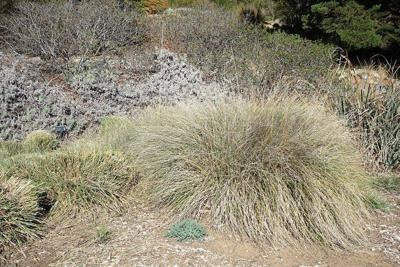
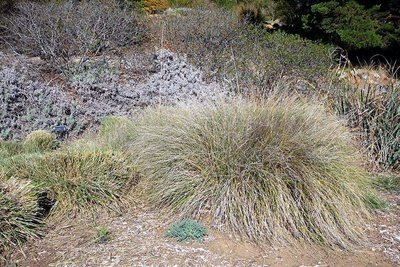
Card back: faded front photo background; Deergrass no longer faded (sold-out opacity) + mild photo levels

diff --git a/shop.css b/shop.css
@@ -5,7 +5,7 @@
 @media (min-width:960px) { .grid { grid-template-columns:repeat(3,1fr); } .ph { aspect-ratio:16/9; } }
 .card { border:1px solid #e6e6e6; border-radius:12px; overflow:hidden; display:flex; flex-direction:column; background:#fff; transition:border-color .15s, box-shadow .15s; }
 .card.in-cart { border-color:var(--sage); box-shadow:0 0 0 2px rgba(107,124,106,.25); }
-.card.sold-out { opacity:.75; }
+.card.sold-out { opacity:1; }   /* no fading: it made photos (e.g. Deergrass) look foggy */
 .ph { aspect-ratio:5/2; background:linear-gradient(135deg,var(--cream),#ecebe6); display:flex; align-items:center; justify-content:center; color:#8a8f88; font-size:0.85rem; }
 .ph { position:relative; overflow:hidden; }
 .ph img { position:absolute; inset:0; width:100%; height:100%; object-fit:cover; }
@@ -283,3 +283,11 @@ html.ty-open, html.ty-open body { overflow:hidden; }
 .card.has-basics { --card-h:450px; }
 .grid > .card { --card-h:450px; height:var(--card-h); overflow:hidden; }
 .card.has-basics .pane-basics.compact .basics-in { justify-content:space-evenly; } .card.has-basics .pane-basics.compact .basics-fine { margin-top:0; }
+
+/* Card back: faded front photo behind everything; cards without a photo keep a plain cream back */
+.pane-basics { background:var(--cream,#faf7f0); --bg-op:.2; }
+.pane-basics .back-bg { position:absolute; inset:0; width:100%; height:100%; object-fit:cover; opacity:var(--bg-op); filter:saturate(.7) blur(1.5px); transform:scale(1.04); pointer-events:none; z-index:0; }
+.pane-basics.has-bg::after { content:""; position:absolute; inset:0; background:linear-gradient(180deg,rgba(250,247,240,.35),rgba(250,247,240,.15)); pointer-events:none; z-index:0; }
+.pane-basics .basics-in { z-index:1; }
+.pane-basics.has-bg .fchip-t, .pane-basics.has-bg .size-v { text-shadow:0 0 3px rgba(250,247,240,.95), 0 0 1px rgba(250,247,240,.95); }
+html.bg-light .pane-basics { --bg-op:.12; } html.bg-strong .pane-basics { --bg-op:.3; }

diff --git a/shop.js b/shop.js
@@ -243,6 +243,8 @@
     if (ph0 && x.form) ph0.appendChild(el("span", { class: "form-ribbon on-photo", "aria-hidden": "true" }, x.form));
     var d1 = el("div", { class: "flip-dots", "aria-hidden": "true" }); d1.appendChild(el("i", { class: "on" })); d1.appendChild(el("i"));
     if (ph0) ph0.after(d1);
+    var fimg = ph0 && ph0.querySelector("img");   // faded copy of the front photo behind the back (same URL, cached)
+    if (fimg) { var bg = el("img", { class: "back-bg", src: fimg.getAttribute("src"), alt: "", "aria-hidden": "true", loading: "lazy", decoding: "async" }); if (fimg.getAttribute("srcset")) { bg.setAttribute("srcset", fimg.getAttribute("srcset")); bg.setAttribute("sizes", fimg.getAttribute("sizes")); } bp.pane.insertBefore(bg, bp.pane.firstChild); bp.pane.classList.add("has-bg"); }
     track.appendChild(front); track.appendChild(bp.pane); card.appendChild(track); card.classList.add("has-basics");
     var side = 0, drag = null, swallow = false;
     function show(on) { card.classList.toggle("showing-basics", !!on); front.setAttribute("aria-hidden", on ? "true" : "false"); bp.pane.setAttribute("aria-hidden", on ? "false" : "true"); }
